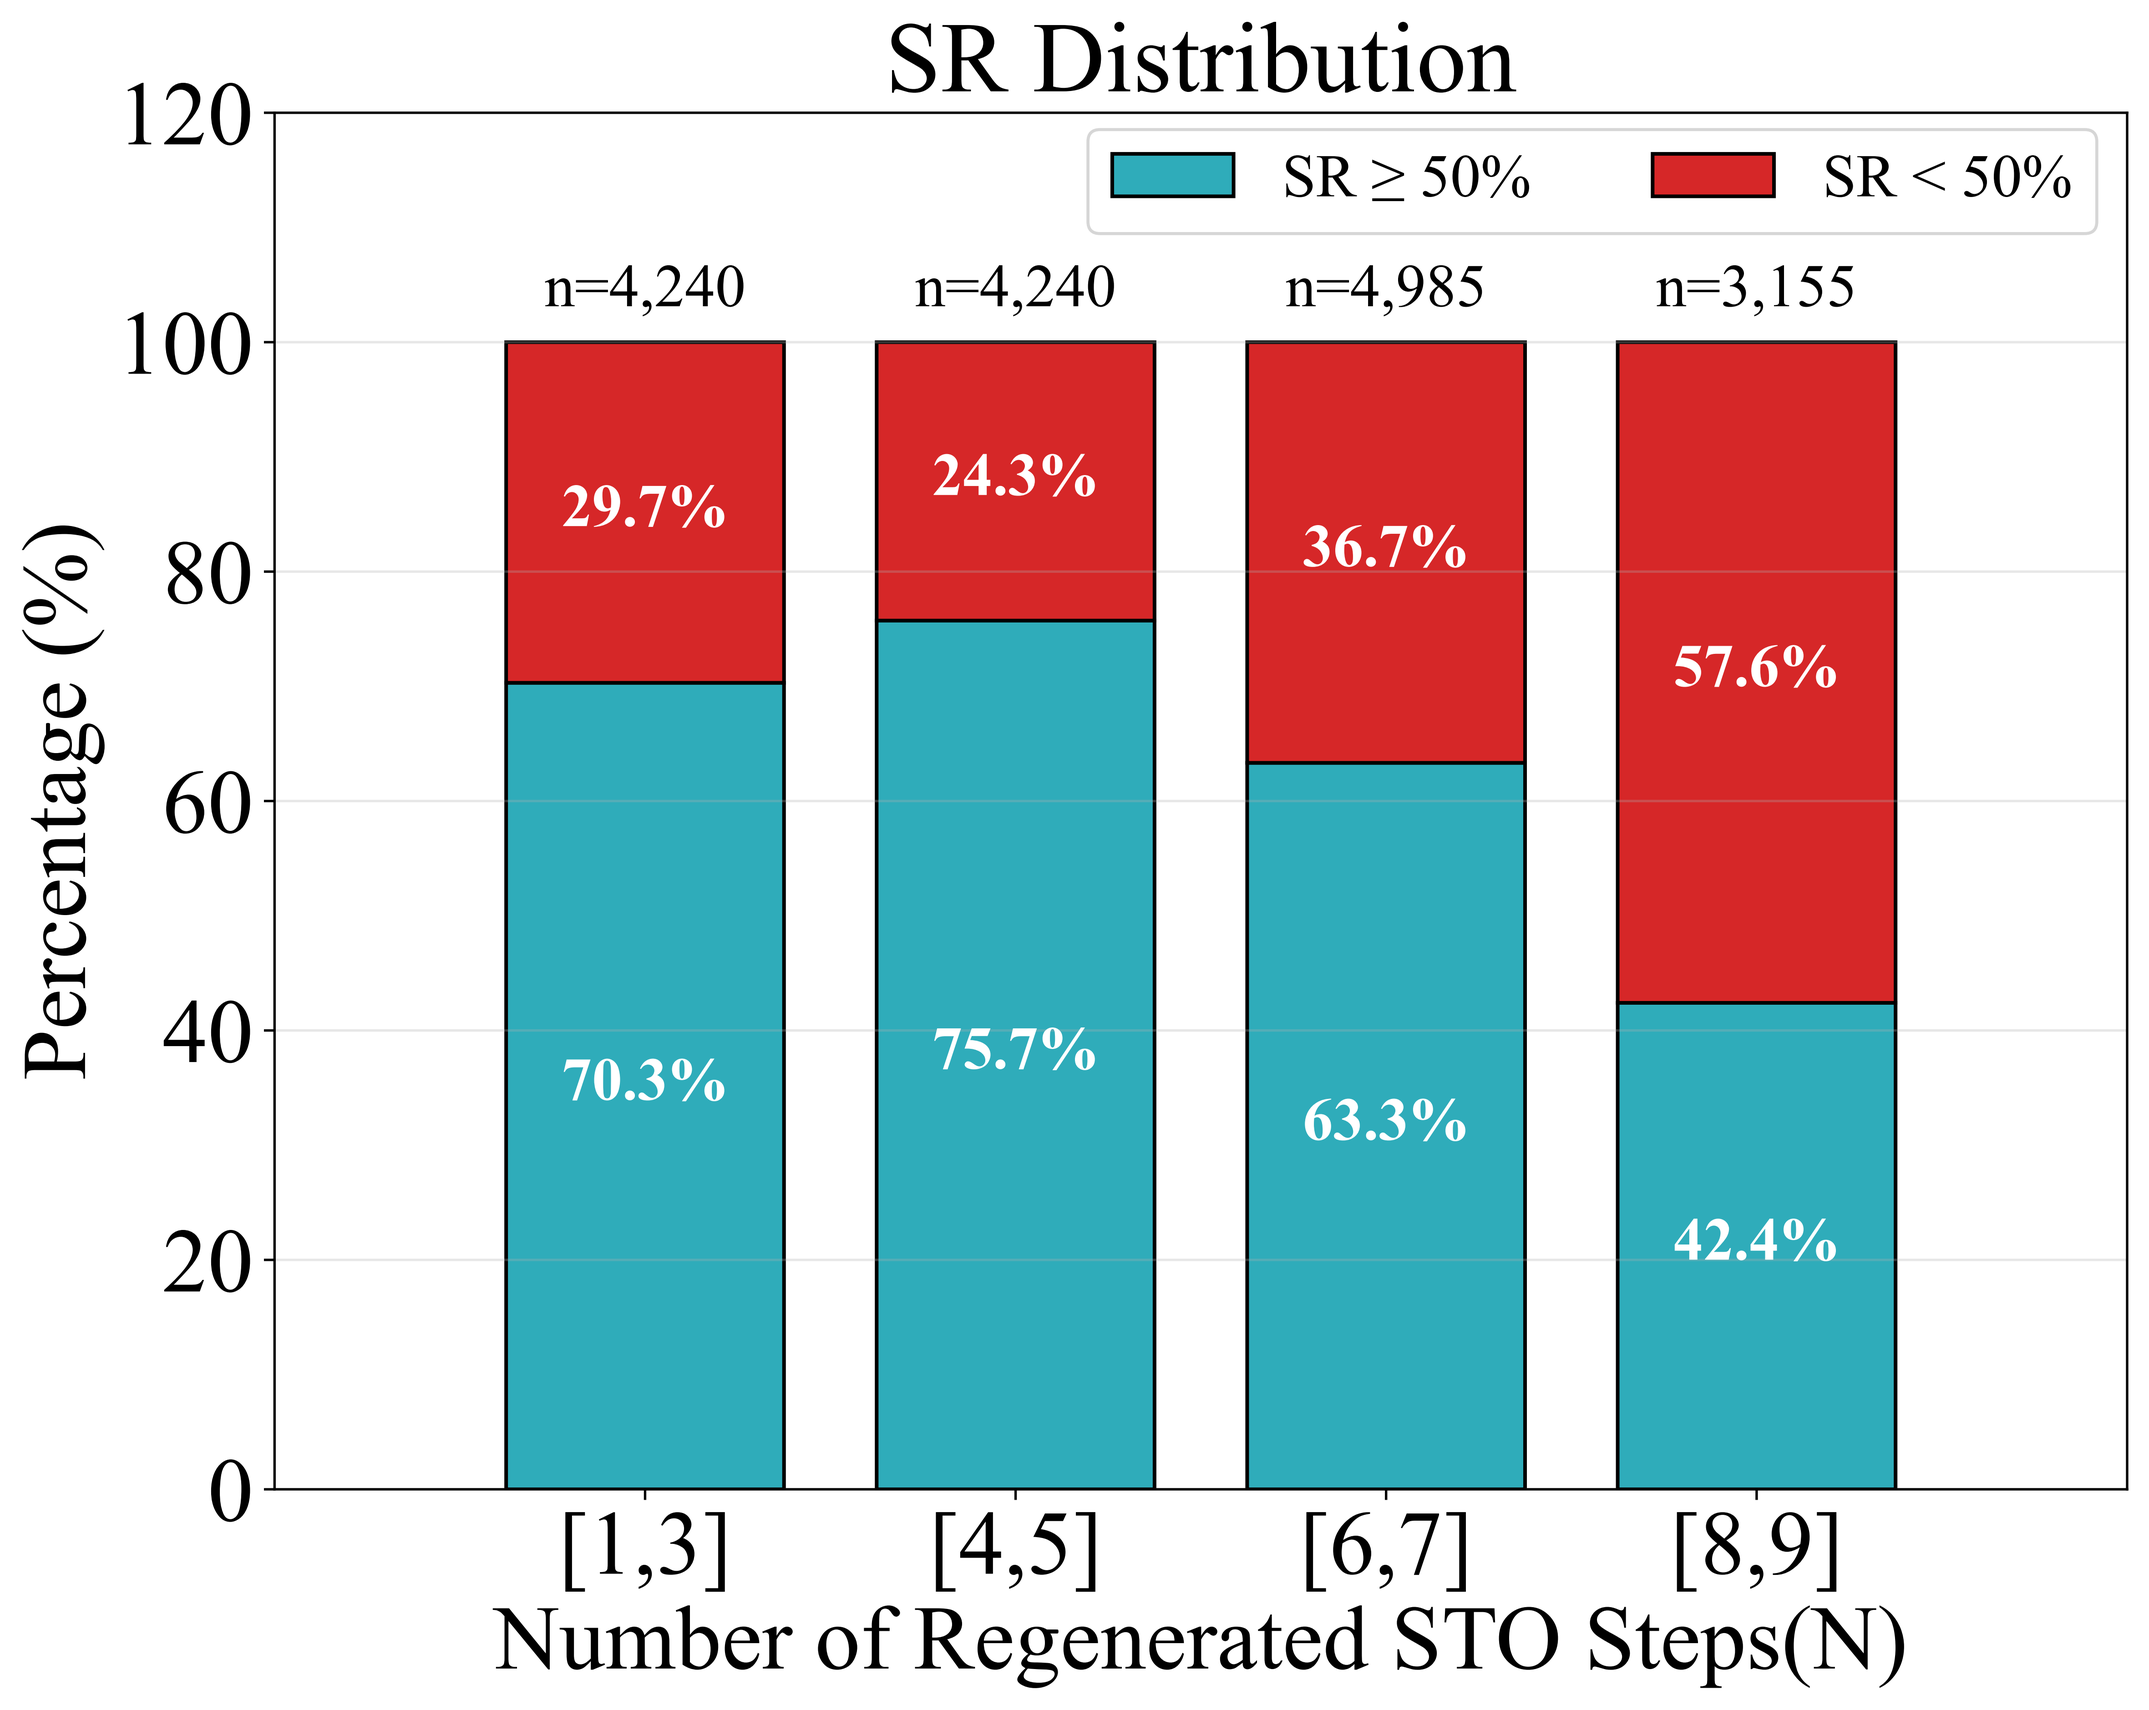
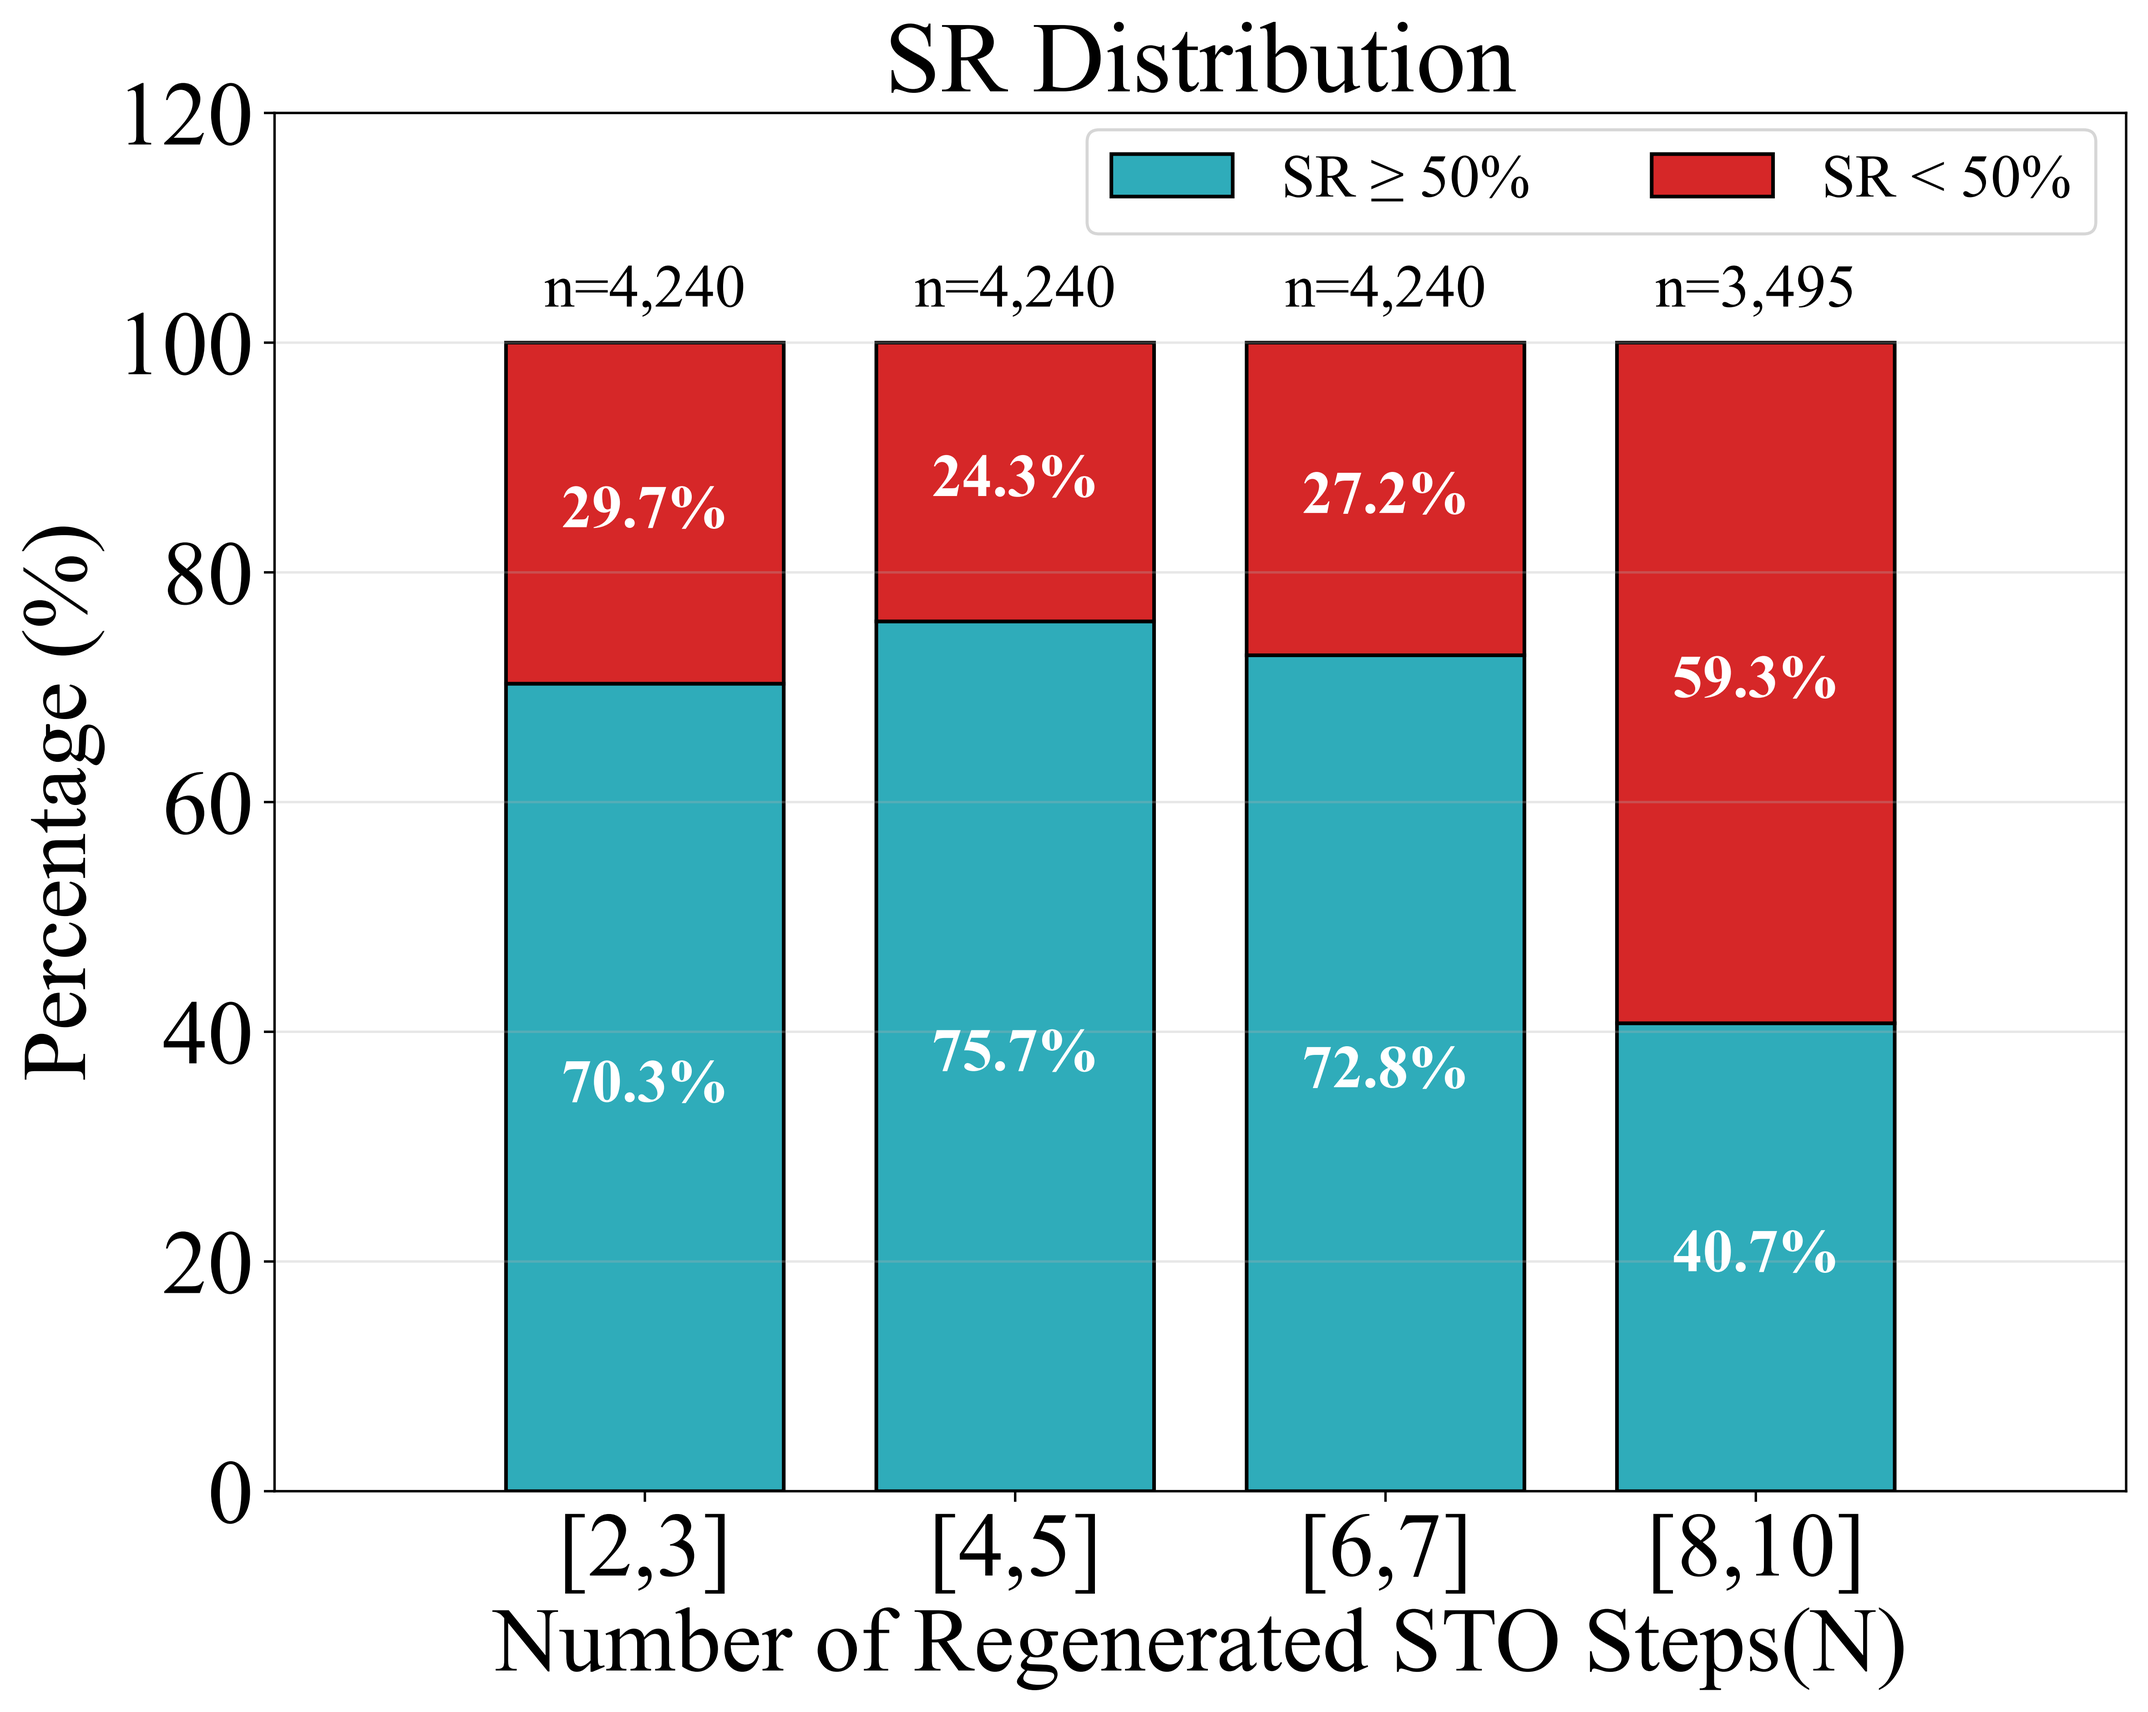
fix result fig

diff --git a/index.html b/index.html
@@ -13,19 +13,7 @@
   <!-- ==================== Hero ==================== -->
   <header class="hero container">
     <h1>Validity-Assured Regeneration of Parametric Solid Modeling</h1>
-
-    <div class="link-bar">
-      <a href="https://doi.org/10.1145/3829340.3842251" target="_blank" rel="noopener">
-        <!-- paper icon -->
-        <svg xmlns="http://www.w3.org/2000/svg" viewBox="0 0 24 24"><path d="M14 2H6a2 2 0 0 0-2 2v16a2 2 0 0 0 2 2h12a2 2 0 0 0 2-2V8l-6-6zm-1 2l5 5h-5V4zM6 20V4h5v7h7v9H6z"/></svg>
-        Paper
-      </a>
-      <a href="https://github.com/chenchenzi718/Fusion2FreeCAD" target="_blank" rel="noopener">
-        <!-- github icon -->
-        <svg xmlns="http://www.w3.org/2000/svg" viewBox="0 0 24 24"><path d="M12 .3a12 12 0 0 0-3.8 23.38c.6.12.83-.26.83-.57v-2.02c-3.34.73-4.04-1.41-4.04-1.41-.55-1.39-1.34-1.76-1.34-1.76-1.09-.75.08-.73.08-.73 1.2.08 1.84 1.24 1.84 1.24 1.07 1.83 2.81 1.3 3.5 1 .1-.78.42-1.3.76-1.6-2.67-.3-5.47-1.33-5.47-5.93 0-1.31.47-2.38 1.24-3.22-.14-.3-.54-1.52.1-3.18 0 0 1-.32 3.3 1.23a11.5 11.5 0 0 1 6.02 0c2.28-1.55 3.29-1.23 3.29-1.23.64 1.66.24 2.88.12 3.18a4.65 4.65 0 0 1 1.23 3.22c0 4.61-2.81 5.63-5.48 5.92.42.36.81 1.1.81 2.22v3.29c0 .31.2.69.82.57A12 12 0 0 0 12 .3"/></svg>
-        Code
-      </a>
-    </div>
+    <h2 style="color:rgb(43, 90, 73)">SIGGRAPH Asia 2026 Conference Papers</h2>
 
     <!-- Authors -->
     <div class="authors">
@@ -43,8 +31,21 @@
         <sup>2</sup> Sheyun Technology
       </div>
       <div class="institution" style="font-size:0.85rem; margin-top:2px;">
-        * Equal contribution &nbsp;&middot;&nbsp; &dagger; Corresponding author
+        * Both authors contributed equally to this research.  &nbsp;&nbsp; &dagger; Corresponding author.
       </div>
+    </div>
+
+    <div class="link-bar">
+      <a href="https://doi.org/10.1145/3829340.3842251" target="_blank" rel="noopener">
+        <!-- paper icon -->
+        <svg xmlns="http://www.w3.org/2000/svg" viewBox="0 0 24 24"><path d="M14 2H6a2 2 0 0 0-2 2v16a2 2 0 0 0 2 2h12a2 2 0 0 0 2-2V8l-6-6zm-1 2l5 5h-5V4zM6 20V4h5v7h7v9H6z"/></svg>
+        Paper
+      </a>
+      <a href="https://github.com/chenchenzi718/Fusion2FreeCAD" target="_blank" rel="noopener">
+        <!-- github icon -->
+        <svg xmlns="http://www.w3.org/2000/svg" viewBox="0 0 24 24"><path d="M12 .3a12 12 0 0 0-3.8 23.38c.6.12.83-.26.83-.57v-2.02c-3.34.73-4.04-1.41-4.04-1.41-.55-1.39-1.34-1.76-1.34-1.76-1.09-.75.08-.73.08-.73 1.2.08 1.84 1.24 1.84 1.24 1.07 1.83 2.81 1.3 3.5 1 .1-.78.42-1.3.76-1.6-2.67-.3-5.47-1.33-5.47-5.93 0-1.31.47-2.38 1.24-3.22-.14-.3-.54-1.52.1-3.18 0 0 1-.32 3.3 1.23a11.5 11.5 0 0 1 6.02 0c2.28-1.55 3.29-1.23 3.29-1.23.64 1.66.24 2.88.12 3.18a4.65 4.65 0 0 1 1.23 3.22c0 4.61-2.81 5.63-5.48 5.92.42.36.81 1.1.81 2.22v3.29c0 .31.2.69.82.57A12 12 0 0 0 12 .3"/></svg>
+        Code
+      </a>
     </div>
 
     <!-- Teaser Image / Video -->
@@ -267,36 +268,6 @@
         VAR stays below FBR throughout the feature history, and the two converge as the
         modified feature approaches the end of the history.
       </p>
-    </div>
-  </section>
-
-  <!-- ==================== Code & Usage ==================== -->
-  <section class="code-section container fade-in">
-    <h2 class="section-title">Code & Usage</h2>
-    <p>
-      Our code is open-source under the <strong>MIT License</strong>.
-      See the <a href="https://github.com/chenchenzi718/Fusion2FreeCAD" target="_blank">GitHub repository</a> for full details.
-    </p>
-
-    <h3 style="margin-top:24px; font-size:1.15rem;">Quick Start</h3>
-    <div class="code-block">
-      <code>
-# 1. Install dependencies<br>
-pip install -r requirements.txt<br><br>
-# 2. Set FreeCAD path<br>
-export FREECAD_CMD=/path/to/FreeCADCmd<br><br>
-# 3. Run the full pipeline (clean &rarr; convert &rarr; validate)<br>
-python -m deepcad2free.main
-      </code>
-    </div>
-
-    <h3 style="margin-top:24px; font-size:1.15rem;">Experiment Tools</h3>
-    <div class="code-block">
-      <code>
-# Run parameter modification experiments on all models<br>
-python -m exp_tools.main \&#x3A;<br>
-&nbsp;&nbsp;--scales 5 --scale-min 0.1 --scale-max 0.9 --seed 42
-      </code>
     </div>
   </section>
 
